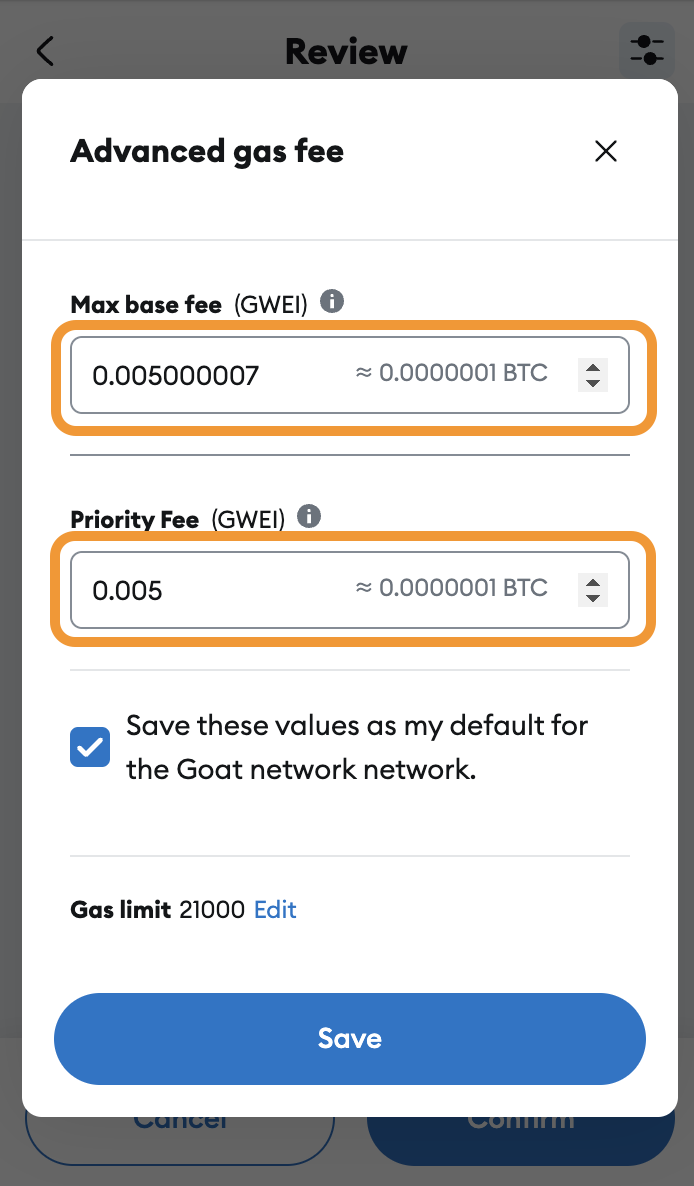
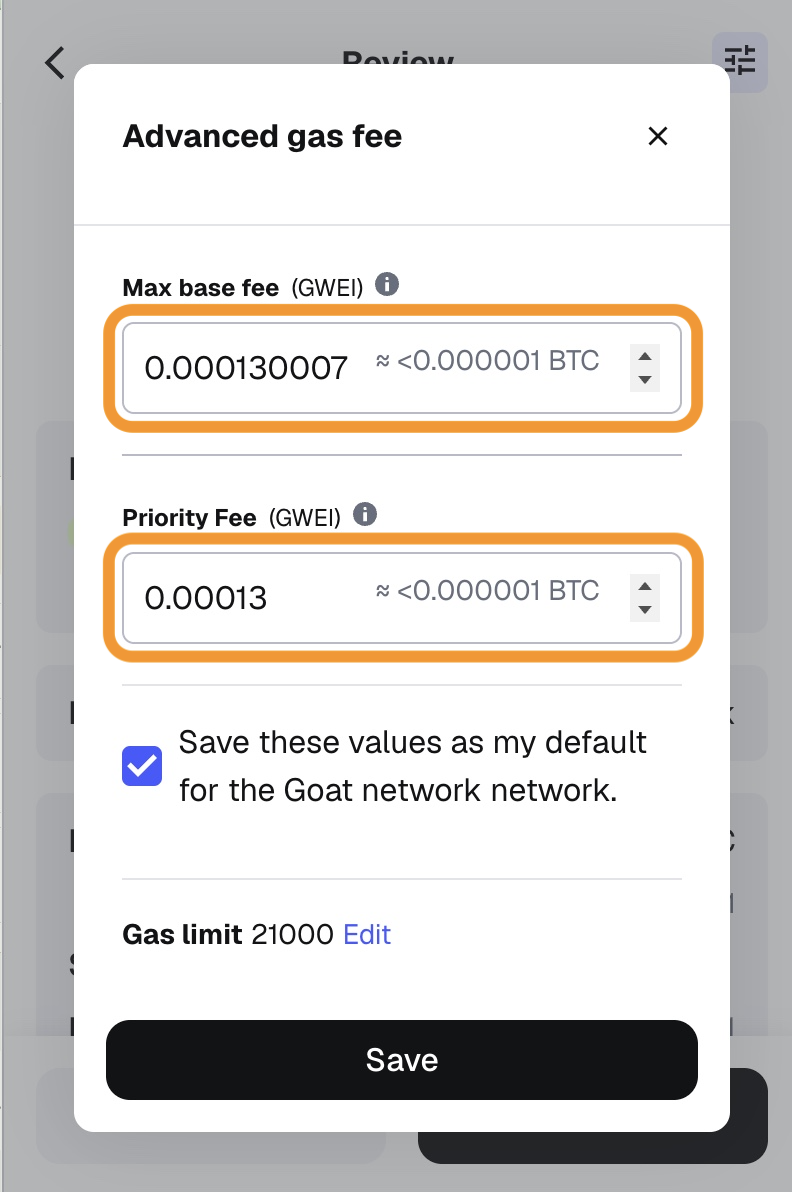
Docs/update user guide (#65)
* Update subgraph.mdx

* Update priority fee

diff --git a/theme.config.tsx b/theme.config.tsx
@@ -4,6 +4,11 @@ import { useConfig } from "nextra-theme-docs";
 import { useRouter } from "next/router";
 
 const config: DocsThemeConfig = {
+  useNextSeoProps() {
+    return {
+      titleTemplate: '%s – GOAT Network Docs'
+    }
+  },
   logo: () => {
     const { resolvedTheme } = useTheme();
     return (
